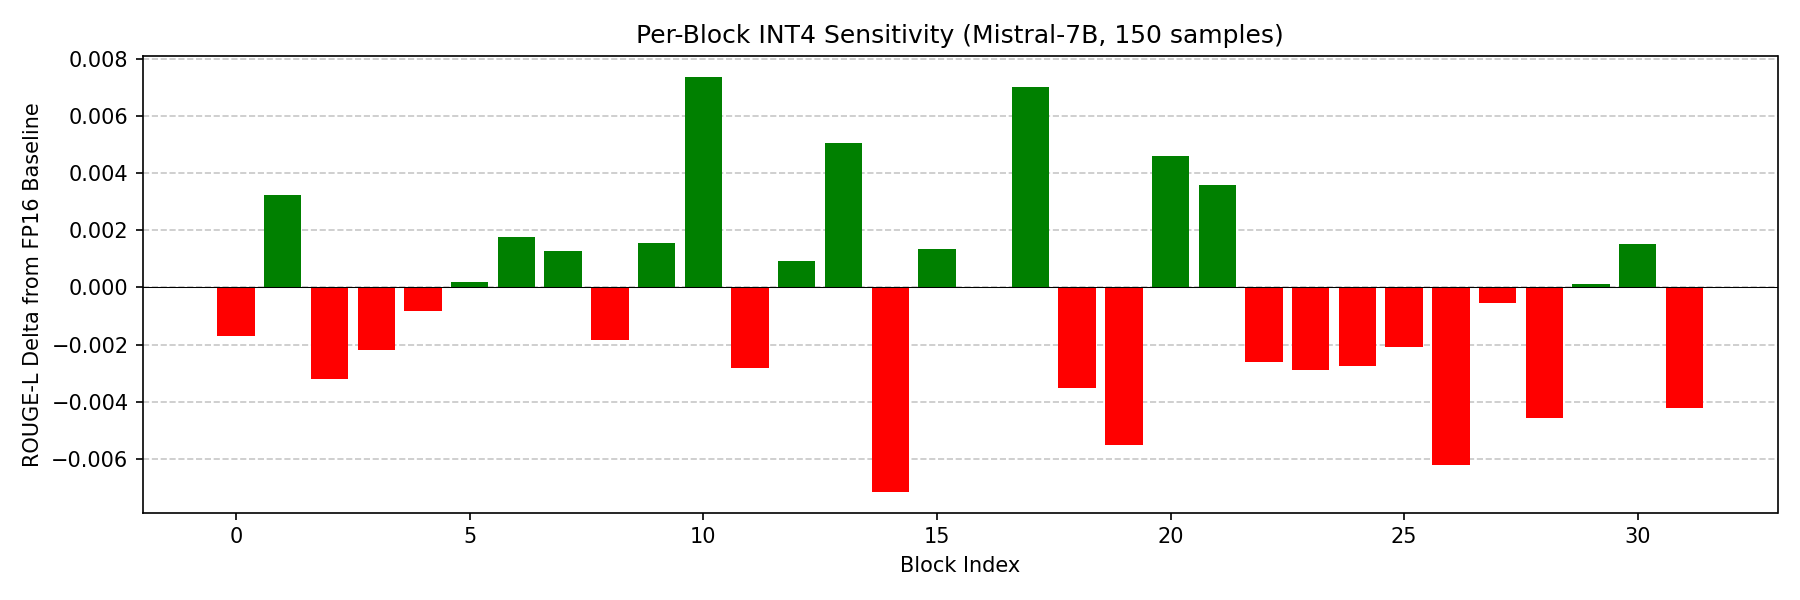
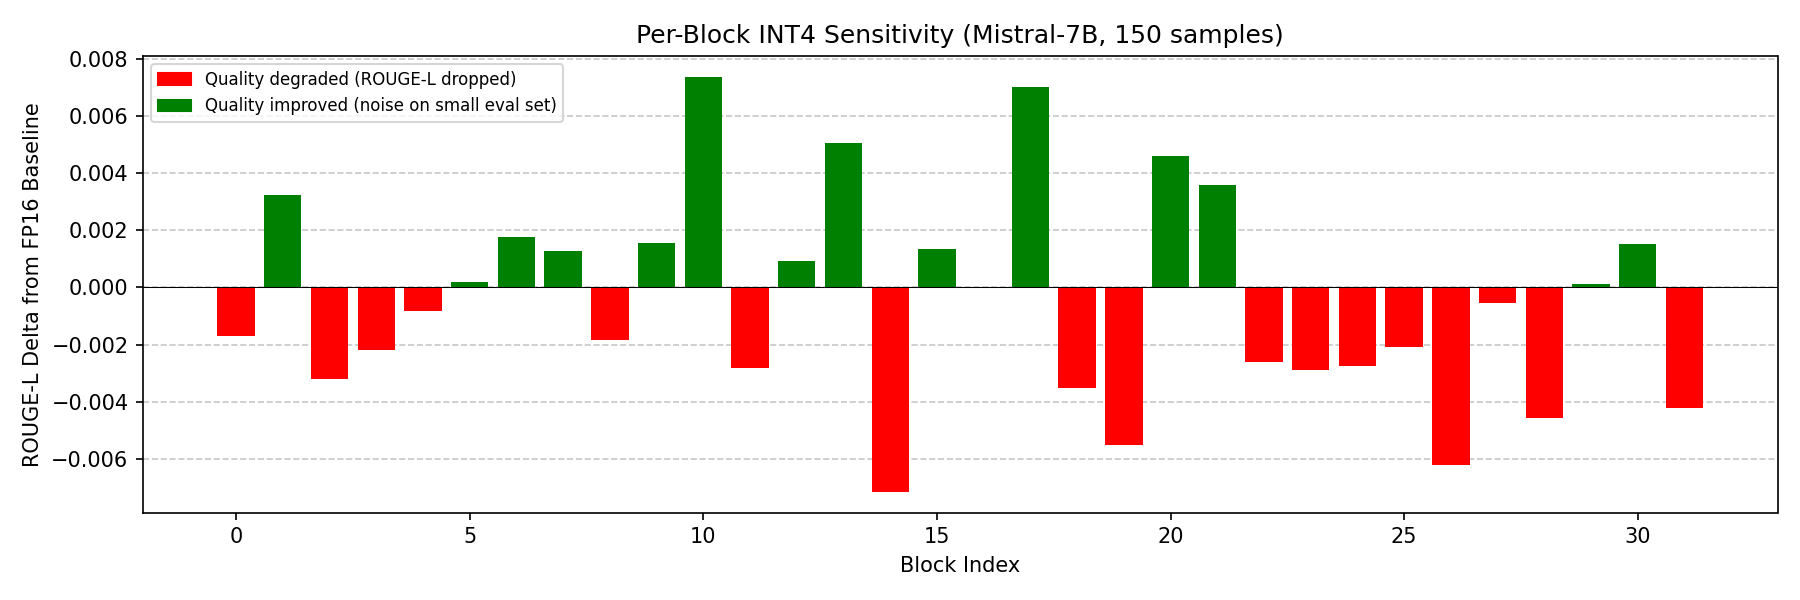
feat: Day9 - add explanatory notes to PTQ/QAT concept docs
- Add weight loading dominance explanation (HBM→SRAM, arithmetic intensity) to ptq.md
- Replace ASCII quality cliff chart with readable table in ptq.md
- Replace ASCII quality-vs-cost chart with table in qat.md
- Clarify AWQ algorithm uses continuous scaling, not hard percentage cutoff
- Add plot legend captions for sensitivity bar charts (red=degraded, green=noise)

Changed region(s): [[0.0622, 0.09, 0.3111, 0.21]]

diff --git a/docs/concepts/ptq.md b/docs/concepts/ptq.md
@@ -8,6 +8,13 @@ After fine-tuning, your model weights are in fp16/bf16. For Mistral-7B that mean
 - Each concurrent request adds KV cache memory on top
 - Throughput is bottlenecked by memory bandwidth (weight loading dominates over compute for autoregressive generation)
 
+  > **Why weight loading dominates:** During autoregressive generation, the model produces one token at a time. For each token, the GPU must load the **entire** weight matrices from HBM (high-bandwidth memory) into SRAM (on-chip compute cores) to perform:
+  > - **Q/K/V projections**: $W_Q, W_K, W_V \in \mathbb{R}^{d \times d_{head} \times n_{heads}}$ — three matmuls per attention layer
+  > - **Output projection**: $W_O \in \mathbb{R}^{d \times d}$
+  > - **FFN layers**: $W_{up} \in \mathbb{R}^{d \times 4d}$, $W_{down} \in \mathbb{R}^{4d \times d}$ — two large matmuls per layer
+  >
+  > Each of these is a matrix-vector multiply (weight matrix × single token's hidden state), giving arithmetic intensity of ~1 FLOP/byte. An A100 needs ~156 FLOPs/byte to saturate compute. So the GPU spends nearly all its time shuttling weights from HBM → SRAM, not computing. Quantizing to 4-bit shrinks weights ~4×, meaning the same bandwidth delivers ~4× more tokens/second — the compute was never the bottleneck.
+
 PTQ compresses weights **after training is done** — no retraining, no gradient computation, no GPU hours. You take a trained checkpoint and make it smaller and faster for serving.
 
 ## Core Idea
@@ -124,10 +131,12 @@ Where $a_i$ is the average activation magnitude for channel $i$.
 
 **Algorithm**:
 
-1. Run calibration data, record per-channel activation magnitudes
-2. Identify salient channels (top 1% by activation magnitude)
-3. Scale salient channels up before quantization (protecting them from rounding error)
-4. Scale corresponding subsequent layers down to compensate
+1. Run calibration data, record per-channel activation magnitudes $|\bar{a}_j|$
+2. Compute per-channel scaling factors: channels with larger activations get proportionally larger scales (continuous, not a hard cutoff — the library auto-searches for optimal scaling exponent $\alpha$)
+3. Scale weight channels up before quantization (protecting high-activation channels from rounding error)
+4. Scale corresponding subsequent layers down to compensate (mathematically equivalent output)
+
+> **Note:** There is no user-facing "percentage" parameter. The `autoawq` library internally searches for the optimal $\alpha$ that minimizes quantization error across all channels simultaneously. The "salient channels" concept is a smooth weighting, not a binary threshold.
 
 ```python
 from awq import AutoAWQForCausalLM
@@ -203,19 +212,17 @@ Group size 128 means one scale/zero-point per 128 weights. Smaller groups = more
 
 ## Quality vs Bit-Width: The Quality Cliff
 
-```bash
-Quality (ROUGE-L)
-  |
-  |  ████████████████████████  fp16 (baseline)
-  |  ███████████████████████   INT8 naive (~<1 pt drop)
-  |  ██████████████████████    INT8 SmoothQuant (~<0.5 pt)
-  |  ████████████████████      INT4 GPTQ (~0.5-1 pt drop)
-  |  ███████████████████       INT4 AWQ (~0.5-1 pt drop)
-  |  ██████████████            INT4 naive (3-8 pt drop) <- quality cliff
-  |  █████████                 INT3 (usually unacceptable)
-  |
-  +---------------------------- Bit-width ->
-```
+| Method           | Bits | ROUGE-L Loss  | Quality Retained | Notes                                       |
+|------------------|:----:|:-------------:|:----------------:|---------------------------------------------|
+| fp16 (baseline)  | 16   | 0             | 100%             | No quantization                             |
+| INT8 SmoothQuant | 8    | ~<0.5 pt      | ~99%             | W8A8, best INT8                             |
+| INT8 naive       | 8    | ~<1 pt        | ~98%             | Simple round-to-nearest, still fine         |
+| INT4 GPTQ        | 4    | -0.5 to -1 pt | ~96-98%          | Hessian-based compensation                  |
+| INT4 AWQ         | 4    | -0.5 to -1 pt | ~96-98%          | Activation-aware scaling                    |
+| INT4 naive       | 4    | -3 to -8 pt   | ~80-93%          | **Quality cliff** — unusable for most tasks |
+| INT3             | 3    | -5 to -15 pt  | <85%             | Usually unacceptable                        |
+
+**The cliff is at INT4 naive** — this is where calibration-aware methods (GPTQ, AWQ) earn their keep. Without calibration, INT4 is often unusable. With calibration, INT4 is practical.
 
 **The cliff is at INT4 naive** — this is where calibration-aware methods (GPTQ, AWQ) earn their keep. Without calibration, INT4 is often unusable. With calibration, INT4 is practical.
 

diff --git a/docs/concepts/qat.md b/docs/concepts/qat.md
@@ -245,7 +245,7 @@ Over epochs:
 - Mid epochs: Optimizer learns which weights matter most under quantization
 - Late epochs: Weights converge to values that maintain task performance even after quantization
 
-### Comparison: QAT vs Post-Hoc Quantization
+### Comparison: QAT vs Post-Hoc Quantization (PTQ)
 
 ```bash
 PTQ (GPTQ):
@@ -271,23 +271,19 @@ Epoch 20 (converged):
 
 ## Quality vs Training Cost Tradeoff
 
-```bash
 Quality recovery (ROUGE-L) vs Training Cost for Mistral-7B to INT4
 
-        Quality
-        │
-  100%  │ ████████████ fp16 baseline
-        │ ████████████ QLoRA baseline (frozen base, only adapters)
-   99%  │ ███████████████ Full QAT (40-60% extra cost)
-   98%  │ ███████████ Layer-selective QAT (20-30% extra cost)
-   97%  │ ██████████ Hybrid PTQ + QAT (10-20% extra cost)
-   96%  │ ████████ PTQ INT4 (GPTQ/AWQ, calibration only)
-   94%  │ ████ PTQ INT4 naive (round-to-nearest)
-        │
-        └──────────────────────────
-          0%   20%   40%   60%   100%
-          Training Cost
-```
+| Method              | Quality Retained | ROUGE-L Loss    | Extra Training Cost    | When to use                        |
+|---------------------|:----------------:|:---------------:|:----------------------:|------------------------------------|
+| fp16 baseline       | 100%             | 0               | reference              | No quantization needed             |
+| QLoRA baseline      | 100%             | 0               | reference              | Adapters stay fp16                 |
+| Full QAT            | ~99%             | -0.1 to -0.5 pt | 40-60% of fine-tuning  | PTQ quality unacceptable           |
+| Layer-selective QAT | ~98%             | -0.3 to -0.8 pt | 20-30% of fine-tuning  | Quality-critical + budget-limited  |
+| Hybrid PTQ + QAT    | ~97%             | -0.5 to -1.0 pt | 10-20% of fine-tuning  | Cheapest QAT option                |
+| PTQ INT4 (GPTQ/AWQ) | ~96%             | -0.5 to -2.0 pt | ~0% (calibration only) | Default choice for most projects   |
+| PTQ INT4 naive      | ~94%             | -3 to -8 pt     | 0%                     | Never use this                     |
+
+**Takeaway:** GPTQ/AWQ gives you 96% quality for free. Each additional 1% of quality recovery costs 10-20% more GPU hours. Most projects stop at PTQ.
 
 ## QAT in the Project Pipeline
 

diff --git a/docs/results.md b/docs/results.md
@@ -116,7 +116,7 @@ Config: bs=4, grad_accum=4, bf16, 1 epoch, 100 steps, avg_seq_len=837.6
 
 16. **Mid-network blocks degrade most under INT4, not first/last.** Per-layer sweep (150 samples, simulated INT4 quantize-dequantize) found blocks 14 (-0.72pt), 26 (-0.62pt), 19 (-0.55pt) as top-3 most sensitive. Block 0 ranked 15th. Contradicts the common assumption that embedding-adjacent layers are most fragile.
 17. **Output projections (`down_proj`, `o_proj`) are the sensitive module types.** MLP output projection (-0.29pt) and attention output projection (-0.11pt) degrade most when quantized across all 32 blocks. These feed directly into the residual stream — rounding errors propagate immediately.
-18. **Single-layer INT4 quantization is survivable.** Worst single-block drop was -0.72pt. The larger drops seen in full PTQ (Day 7-8) come from cumulative error across all 32 blocks simultaneously, not any single catastrophic layer.
+18. **Single-block INT4 quantization is survivable.** The sensitivity sweep quantizes **one block at a time** (the other 31 stay FP16) and measures the isolated ROUGE-L drop. The worst single-block drop was only -0.72pt (block 14). This means no individual block is catastrophically fragile — the model can tolerate INT4 rounding in any single block without major quality loss.
 
 ![Per-block ROUGE-L delta under INT4](../assets/plots/sensitivity_per_block.png)
 ![Per-module ROUGE-L delta under INT4](../assets/plots/sensitivity_per_module.png)